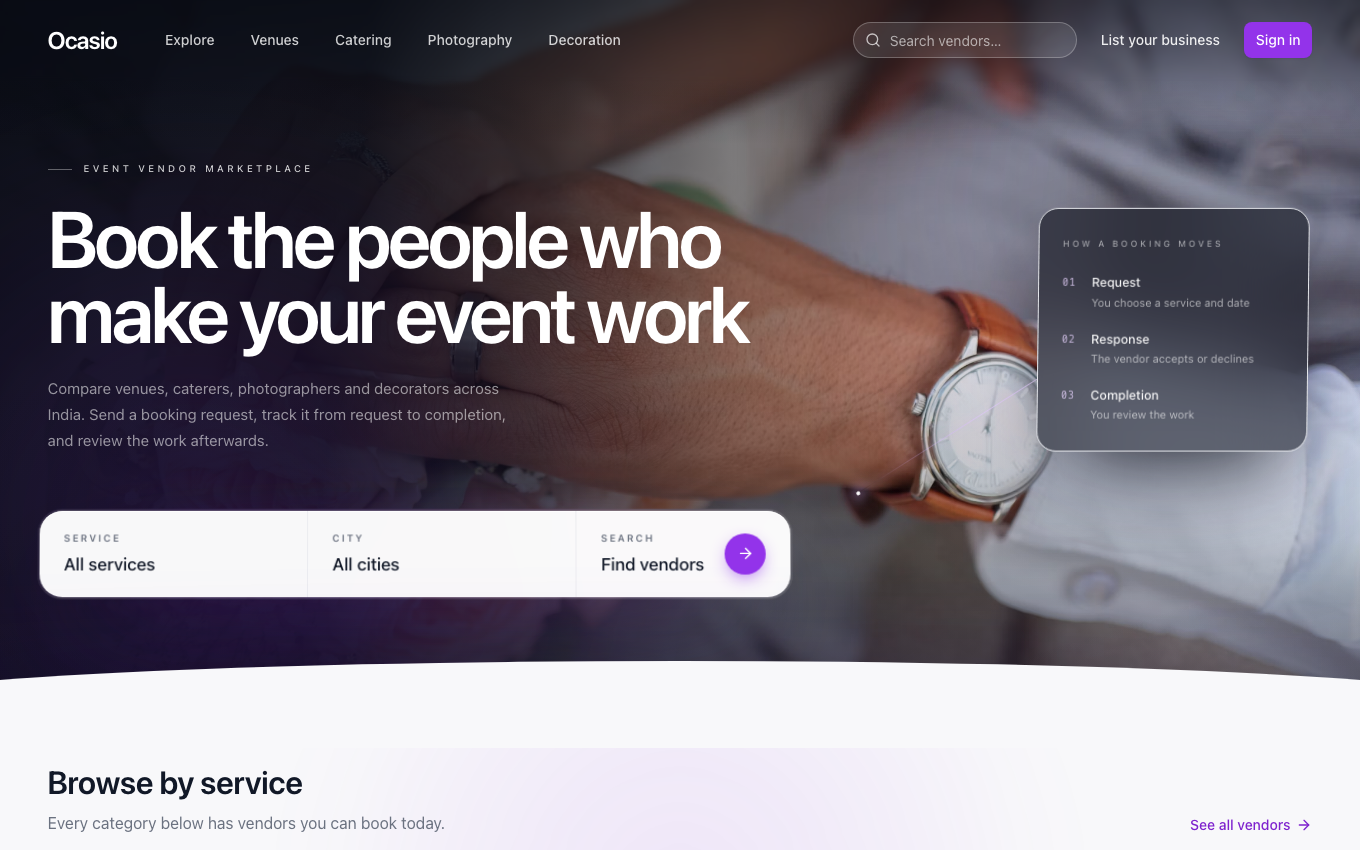
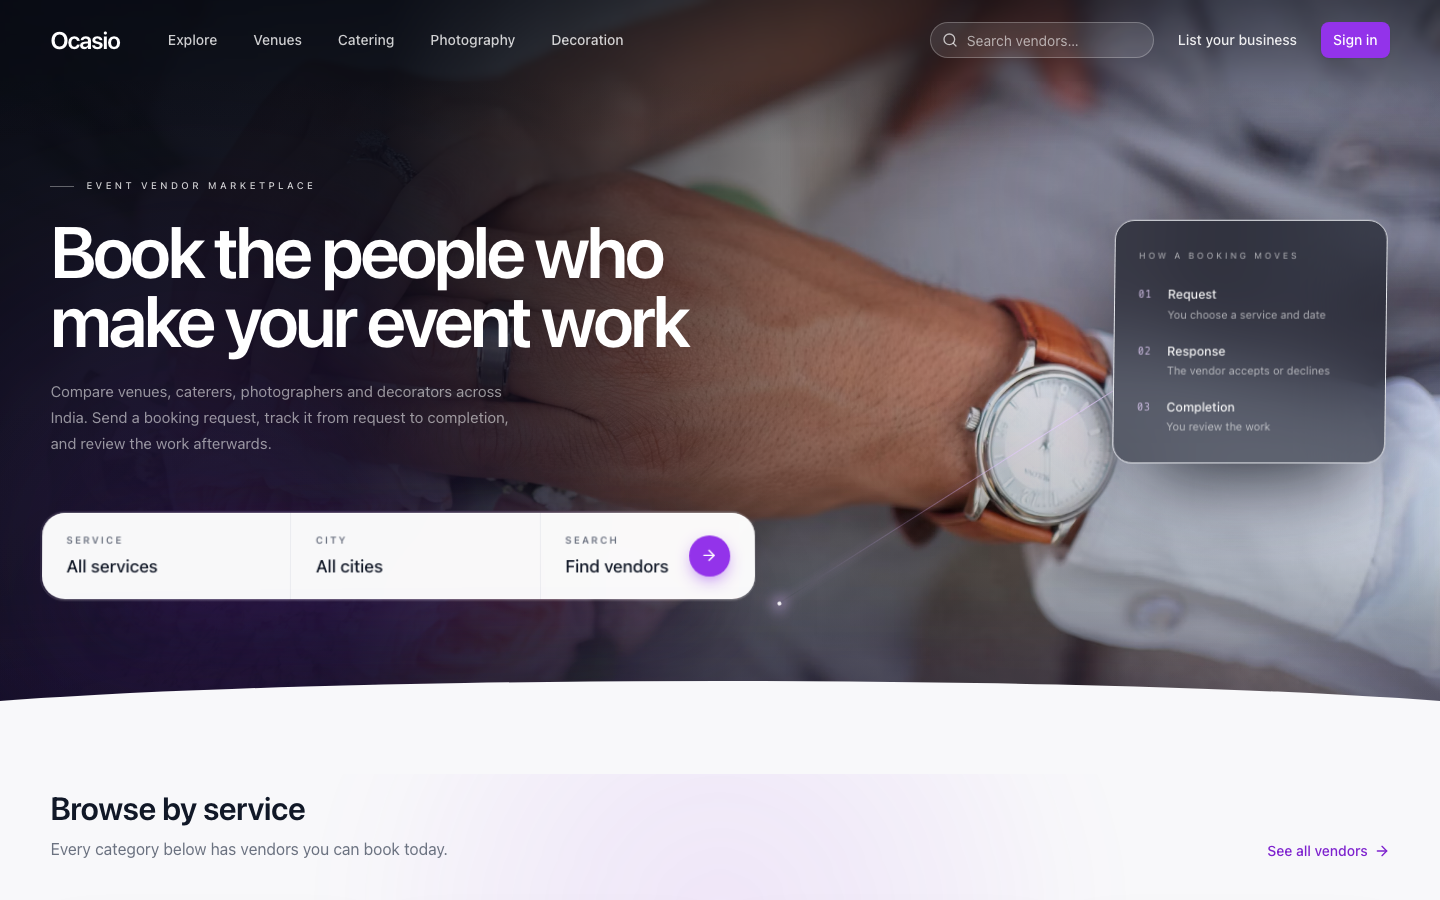
feat: recompose homepage across viewport sizes
The previous pass bounded the canvas at 1440px, which made 1600, 1920, 2560 and
3440 render byte-identical compositions — shell 1440, h1 86, search 859, card
317, gap 276 at every one of them. Technically responsive, visually one layout
in a box. This inverts that: the elements are capped and the canvas is not, so
extra width lands in negative space instead of in a rectangle's margins.

  canvas   1400px, ramping to min(93vw, 1720px) from 1600 up
  title    72px at 1440, 76px from 1600 — down from 86px
  slab     717px at 1440, 757px from 1600 — down from 859px
  card     280–310px, an annotation rather than a panel
  gap      353px at 1440 → 461 at 1600 → 664 from 1920

The grid is minmax(0, measure) / minmax(2rem, 1fr) / card. Nothing occupies the
middle column; it exists to absorb width. Between 1440 and 1920 the gap almost
doubles while the type, the slab and the card stay where they are, which is the
whole difference between a composition that breathes and one that stretches.

The copy column and the search slab now share one width token, so the block has
a single left and right edge instead of two ragged ones.

Hero height answers to available height rather than a flat ceiling:
clamp(680px, 86svh, 1080px). 1920x800 gets a compact 688px hero; 1920x1080 gets
929px; 2560x1440 and 3440x1440 get 1080px, up from the 900px cap that left a
1440px-tall display two-thirds empty.

Four composition modes, not four stylesheets:
[…]

diff --git a/src/index.css b/src/index.css
@@ -5,38 +5,51 @@
 /*
  * ── Responsive composition tokens ───────────────────────────────────────────
  *
- * The homepage has one design scale, not one per screen. A viewport can get
- * larger; the composition should not. Everything below exists so that growth
- * past a certain width turns into whitespace around the content rather than
- * bigger content.
+ * The homepage recomposes; it does not scale. A wider window feeds negative
+ * space inside the composition, never the elements themselves.
  *
- * Three deliberate modes, all of the same design language:
+ * Four modes of one visual language:
  *
- *   A  < 768px     phone. Its own vertical composition, viewport-relative type.
- *   B  768–~1470   the canvas is still narrower than its cap, so the content is
- *                  fluid and scales with the *canvas*, not the window.
- *   C  ~1470+      the canvas has hit --shell-max and every container-relative
- *                  value is now constant. Larger monitors get more photograph
- *                  around the composition and an identical composition inside
- *                  it. There is no breakpoint here — mode C is simply where the
- *                  clamps and the shell cap both bind, which is why 1920, 2560
- *                  and 3440 render the same layout at the same size.
+ *   A  < 768      phone. Its own vertical composition: the photograph owns the
+ *                 top of the frame, the copy and the search block are anchored
+ *                 to the bottom, and the annotation is dropped entirely.
+ *   B  768–1279   tablet and small laptop. Single column — at 1024 the copy
+ *                 measure, a gap and the annotation cannot all fit.
+ *   C  1280–1599  desktop. The two-field composition appears: copy column,
+ *                 flexible gap, annotation.
+ *   D  1600+      large desktop and ultrawide. The canvas ramps 1440 → 1720 and
+ *                 then stops. Every element ceiling has already bound, so the
+ *                 whole of that extra width lands in the flexible column — the
+ *                 gap between the copy and the annotation roughly doubles
+ *                 between 1440 and 1920 while the type, the slab and the card
+ *                 stay put.
  *
- * `cqw` rather than `vw` is the whole trick: 1cqw is 1% of the *shell*, and the
- * shell stops growing at --shell-max, so every value built on it stops too. vw
- * would keep growing forever and is what made the old hero balloon on a large
- * display.
+ * `cqw` rather than `vw` throughout: 1cqw is 1% of the shell, so each ceiling
+ * binds against the composition's own width rather than the window's.
  */
 :root {
-  --shell-max: 1440px;
+  /* Desktop canvas. Widens at 1600+ (below) — the extra width becomes negative
+     space inside the composition, never larger elements. */
+  --shell-max: 1400px;
   --hero-gutter: clamp(1.25rem, 3.5vw, 4rem);
 
-  /* Mode A — phone. Viewport-relative, because at this size the shell and the
-     viewport are nearly the same thing. */
+  /* Mode A — phone. Viewport-relative, because here the shell and the viewport
+     are nearly the same thing. */
   --hero-title: clamp(2rem, 9.2vw, 2.5rem);
+  --hero-measure: 100%;
   --hero-search-max: 100%;
   --hero-card: 0px;
-  --hero-image-pos: 68% 34%;
+  --hero-thread: 0px;
+  --hero-label: 0.7rem;
+  /*
+   * The photograph is 3:2 and its sharp subject is a narrow horizontal band. In
+   * a tall portrait box, object-cover overflows horizontally only, which makes
+   * object-position's y component inert — every x showed the same blurred upper
+   * band. The mobile zoom creates the vertical overflow that lets the crop
+   * reach the hand and the watch instead.
+   */
+  --hero-image-scale: 1.3;
+  --hero-image-pos: 64% 100%;
   /* The phone composition is bottom-anchored, so the type sits over the lower
      half of the photograph — including the bright watch face. The floor has to
      carry further up here than it does on desktop, where the copy sits over the
@@ -54,11 +67,26 @@
 
 @media (min-width: 768px) {
   :root {
-    /* Mode B/C — every value is a share of the shell, so each one stops on its
-       own once the shell caps. The ceilings are what mode C is made of. */
-    --hero-title: clamp(2.5rem, 6.3cqw, 5.4rem);
-    --hero-search-max: clamp(43rem, 58cqw, 55rem);
-    --hero-card: clamp(15.5rem, 22cqw, 20rem);
+    /*
+     * Modes B and C. Every element has a ceiling of its own, deliberately well
+     * below what the canvas can offer:
+     *
+     *   title    72px at 1440, 76px from 1600 up
+     *   measure  the copy column and the search slab share one width, so the
+     *            block has a single left and right edge
+     *   card     280–320px, an annotation rather than a panel
+     *
+     * Because each ceiling binds before the canvas does, a wider window feeds
+     * the flexible grid column between the copy and the annotation. The gap
+     * grows; nothing else does.
+     */
+    --hero-title: clamp(2.75rem, 5.4cqw, 4.75rem);
+    --hero-measure: clamp(43rem, 52cqw, 46rem);
+    --hero-search-max: var(--hero-measure);
+    --hero-card: clamp(17.5rem, 18cqw, 20rem);
+    --hero-thread: clamp(8rem, 30cqw, 30rem);
+    --hero-label: 0.6rem;
+    --hero-image-scale: 1.04;
     --hero-image-pos: 58% center;
     --hero-floor: linear-gradient(
       to top,
@@ -66,6 +94,18 @@
       rgb(6 9 18 / 0.16) 28%,
       transparent 52%
     );
+  }
+}
+
+@media (min-width: 1600px) {
+  :root {
+    /*
+     * Mode D — large desktop and ultrawide. The canvas is the only thing that
+     * grows. It ramps 1440 → 1720 between 1600 and ~1850 and then stops, so a
+     * 2560 or 3440 display reads as the same composition with photography on
+     * either side rather than a wider one.
+     */
+    --shell-max: min(93vw, 1720px);
   }
 }
 
@@ -171,8 +211,8 @@
 
   @media (min-width: 768px) {
     .hero-viewport {
-      min-height: clamp(680px, 88vh, 900px);
-      min-height: clamp(680px, 88svh, 900px);
+      min-height: clamp(680px, 86vh, 1080px);
+      min-height: clamp(680px, 86svh, 1080px);
     }
   }
 

diff --git a/src/components/Hero.tsx b/src/components/Hero.tsx
@@ -84,7 +84,8 @@ const Hero = () => {
     navigate(`/search?${params.toString()}`);
   };
 
-  const fieldLabel = 'block text-[0.6rem] font-semibold uppercase tracking-[0.2em] text-muted';
+  const fieldLabel =
+    'block text-[length:var(--hero-label)] font-semibold uppercase tracking-[0.2em] text-muted';
 
   // No control chrome of its own: the cell it sits in is the control.
   const selectClass =
@@ -106,7 +107,7 @@ const Hero = () => {
         alt=""
         aria-hidden="true"
         fetchPriority="high"
-        className="absolute inset-0 -z-50 h-full w-full scale-[1.04] object-cover [object-position:var(--hero-image-pos)]"
+        className="absolute inset-0 -z-50 h-full w-full object-cover [object-position:var(--hero-image-pos)] [transform:scale(var(--hero-image-scale))]"
       />
 
       {/* Falloff, not an overlay: opaque canvas on the left, gone by the right. */}
@@ -140,9 +141,9 @@ const Hero = () => {
 
       <div className="relative flex flex-1 items-end lg:items-center">
         <div className="shell shell-query pb-[clamp(72px,8vw,132px)] pt-24 lg:pt-10">
-          <div className="grid gap-y-10 lg:[grid-template-columns:minmax(0,1fr)_var(--hero-card)] lg:items-center lg:gap-x-[clamp(2rem,4cqw,4rem)]">
+          <div className="grid gap-y-10 xl:items-center xl:[grid-template-columns:minmax(0,var(--hero-measure))_minmax(2rem,1fr)_var(--hero-card)]">
             {/* ── midground · copy ─────────────────────────────────────────── */}
-            <div>
+            <div className="max-w-[var(--hero-measure)]">
               <p className="flex items-center gap-3 text-[0.6rem] font-medium uppercase tracking-[0.34em] text-white/80">
                 <span className="h-px w-6 bg-white/35" aria-hidden="true" />
                 Event vendor marketplace
@@ -168,7 +169,7 @@ const Hero = () => {
                 against the bright half of the photograph. */}
             <div
               aria-hidden="true"
-              className="pointer-events-none hidden [perspective:1400px] lg:block lg:translate-y-[clamp(1rem,2.5cqw,2.75rem)]"
+              className="pointer-events-none hidden [perspective:1400px] xl:col-start-3 xl:block xl:translate-y-[clamp(1rem,2.5cqw,2.75rem)]"
             >
               <div className="animate-float ml-auto w-full max-w-[var(--hero-card)]">
                 <div className="relative [transform:translateZ(90px)_rotateY(-13deg)_rotateX(3deg)] [transform-style:preserve-3d]">
@@ -176,7 +177,7 @@ const Hero = () => {
                       A thread of violet light running back toward the search
                       object. Inside the rotated element, so the perspective
                       carries it and it reads as passing through the scene. */}
-                  <span className="absolute right-full top-[70%] h-px w-[min(16vw,13.5rem)] origin-right -rotate-[32deg] bg-[linear-gradient(to_left,rgb(233_213_255_/_0.95),rgb(216_180_254_/_0.42)_46%,transparent_95%)] shadow-[0_0_8px_0_rgb(216_180_254_/_0.55)]">
+                  <span className="absolute right-full top-[70%] h-px w-[var(--hero-thread)] origin-right -rotate-[32deg] bg-[linear-gradient(to_left,rgb(233_213_255_/_0.95),rgb(216_180_254_/_0.42)_46%,transparent_95%)] shadow-[0_0_8px_0_rgb(216_180_254_/_0.55)]">
                     <span className="absolute -left-px top-1/2 h-[4px] w-[4px] -translate-y-1/2 rounded-full bg-white shadow-[0_0_14px_4px_rgb(216_180_254_/_0.7)]" />
                   </span>
 
